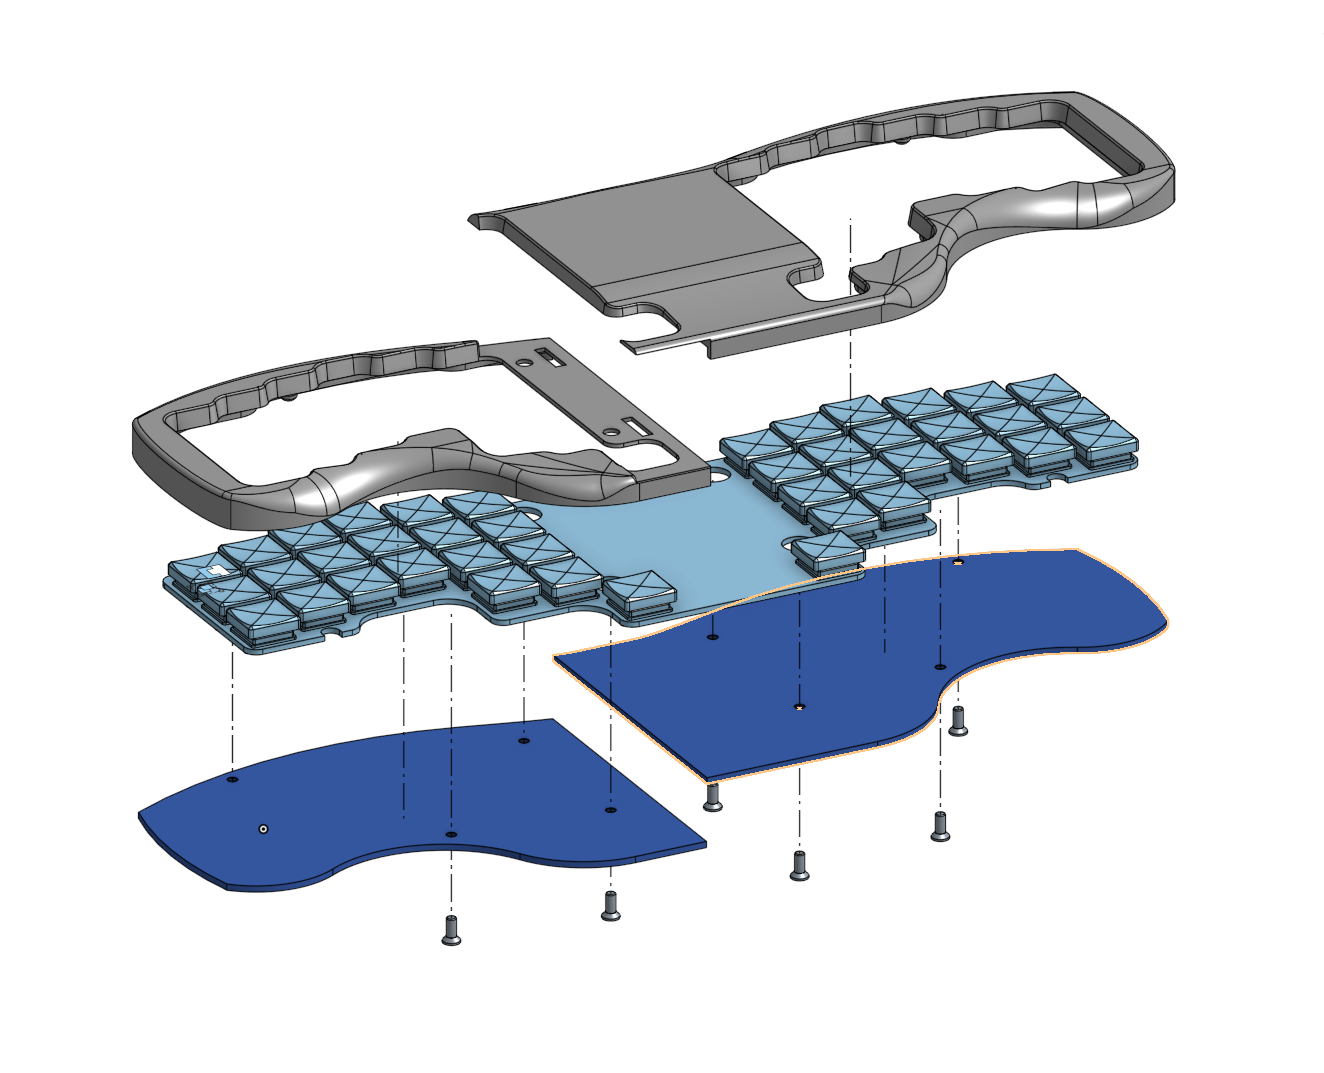
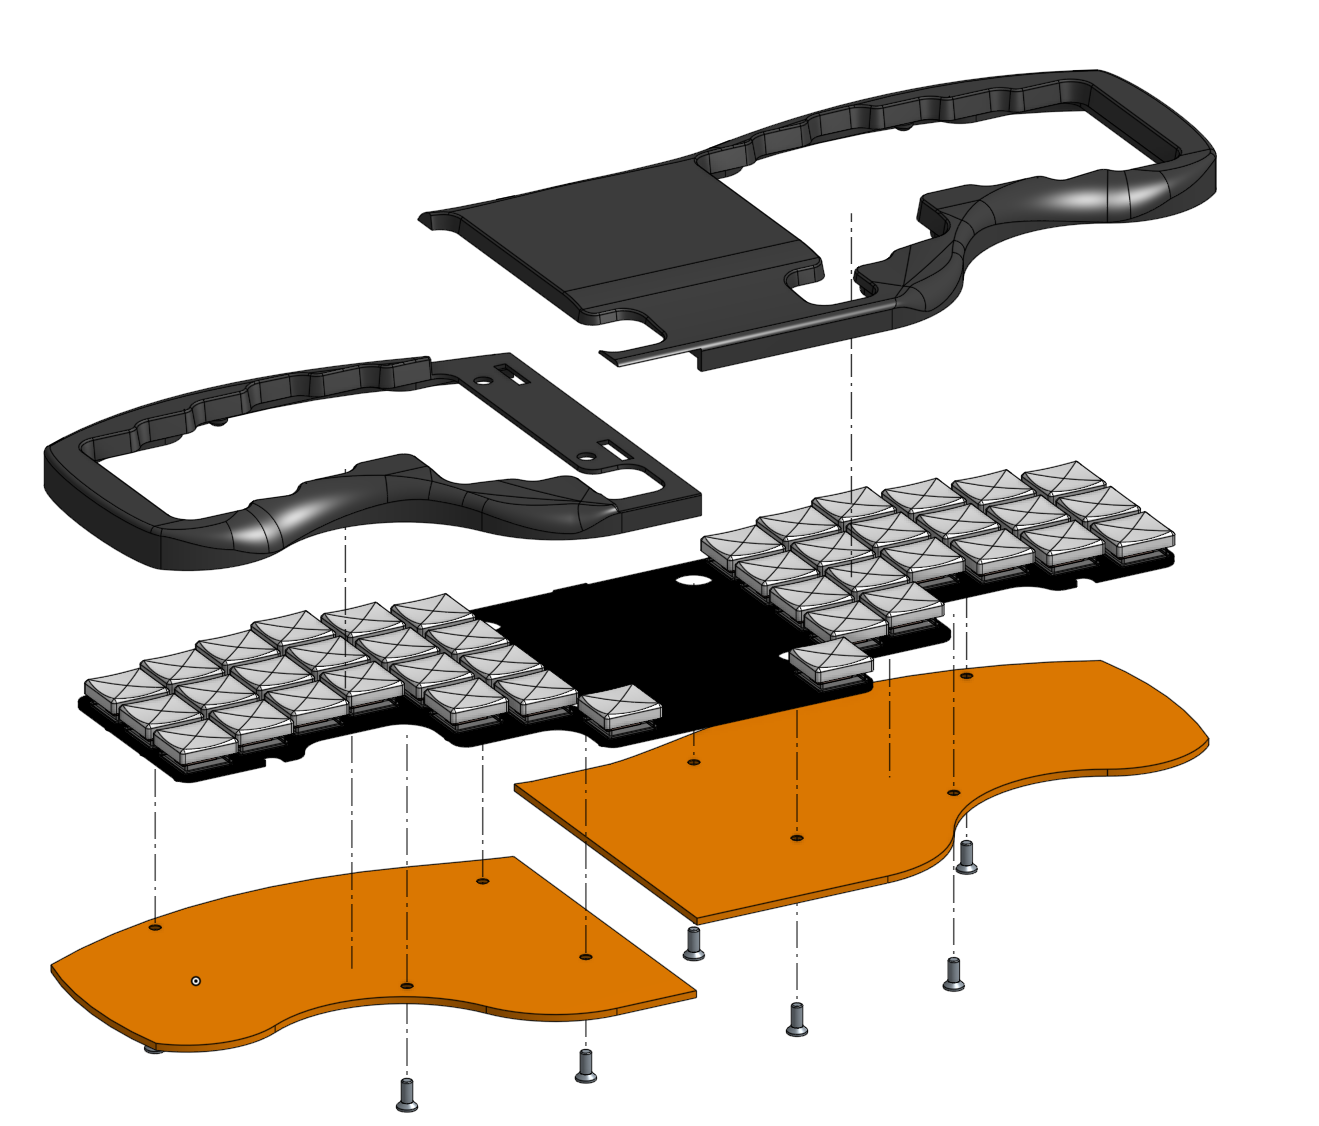
Update readme

diff --git a/README.md b/README.md
@@ -1,6 +1,6 @@
 # 42 Keyboard
 
-A 40% mechanical keyboard.
+A mechanical keyboard with 42 keys.
 
 ## Features
 
@@ -13,12 +13,9 @@ A 40% mechanical keyboard.
 
 ## Pics
 
-- Finished keyboard
-  <br/><img alt="v3.1 picture" src="./42.png" width="600">
+- Finished keyboard [pic coming soon]
 - PCB
   <br/><img alt="v3.1 PCB picture" src="./42-pcb.png" width="600">
-- Height comparison between v3 and v3.1
-  <br/><img alt="height comparison between v3 and v3.1" src="./42-height.png" width="600">
 
 ## Project Structure
 
@@ -51,12 +48,15 @@ If you have some feedback or questions, feel free to [create an issue](https://g
 
 ## Previous Versions
 
+- [version 3.1](https://github.com/nglgzz/42/tree/rev-3.1) –
+  custom PCB, QMK firmware, USB C, Elite-C v4
+  <br/><img alt="v3 picture" src="https://github.com/nglgzz/42/blob/rev-3.1/42.png?raw=true" width="400">
 - [version 3](https://github.com/nglgzz/42/tree/rev-3) –
-  PCB, QMK, Bluetooth, micro USB
+  custom PCB, QMK firmware, Bluetooth, micro USB, Adafruit Feather 32u4 Bluefruit LE
   <br/><img alt="v3 picture" src="https://github.com/nglgzz/42/blob/rev-3/42.jpg?raw=true" width="400">
 - [version 2](https://github.com/nglgzz/42/tree/rev-2) –
-  Handwired, QMK, Bluetooth, micro USB
+  handwired, QMK firmware, Bluetooth, micro USB, Adafruit Feather 32u4 Bluefruit LE
   <br/><img alt="v2 picture"  src="https://github.com/nglgzz/42/blob/rev-2/42.jpg?raw=true" width="400">
 - [version 1:](https://github.com/nglgzz/42/tree/rev-1)
-  PCB, Split, TMK firmware, USB C
+  custom PCB, Split, TMK firmware, USB C, Teensy 2.0
   <br/><img alt="v1 picture" src="https://raw.githubusercontent.com/nglgzz/42/rev-1/42.jpeg" width="400">

diff --git a/case/README.md b/case/README.md
@@ -18,7 +18,7 @@ heat set inserts).
 
 ## Onshape project
 
-[The Onshape project can be viewed here.](https://cad.onshape.com/documents/cb8004757ac706cd9c775f57/v/fec0d55d4a8dead62aa5ec49/e/c6679b585992e23092c8d566?renderMode=0&uiState=69d0fe57e7d753b0f5cca13d)
+[The Onshape project can be viewed here.](https://cad.onshape.com/documents/cb8004757ac706cd9c775f57/v/824a674918c94d4b9e8f52ce/e/c6679b585992e23092c8d566?renderMode=0&uiState=69d10da6ed65adab6f9d1476)
 Through this link you can also export the various parts in different formats and
 "fork" the project to make changes to it.
 
